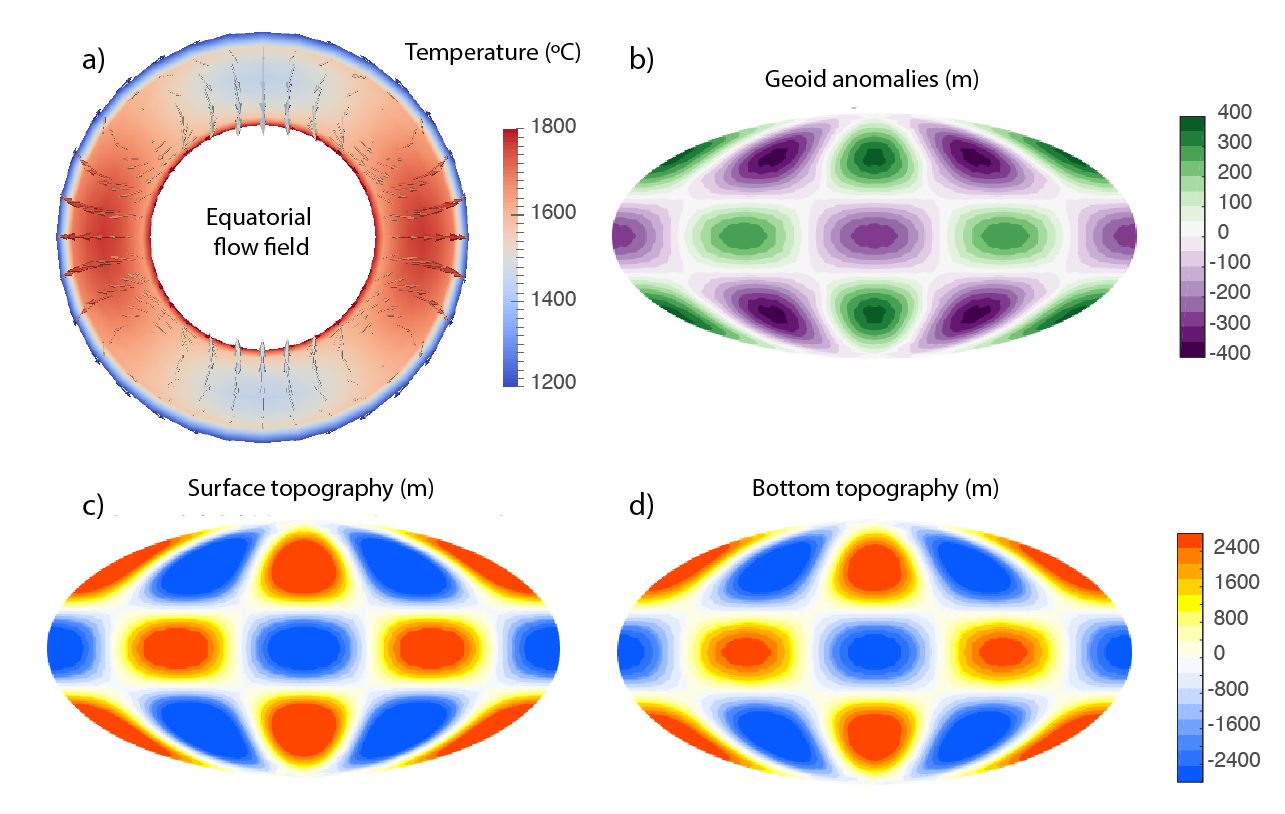
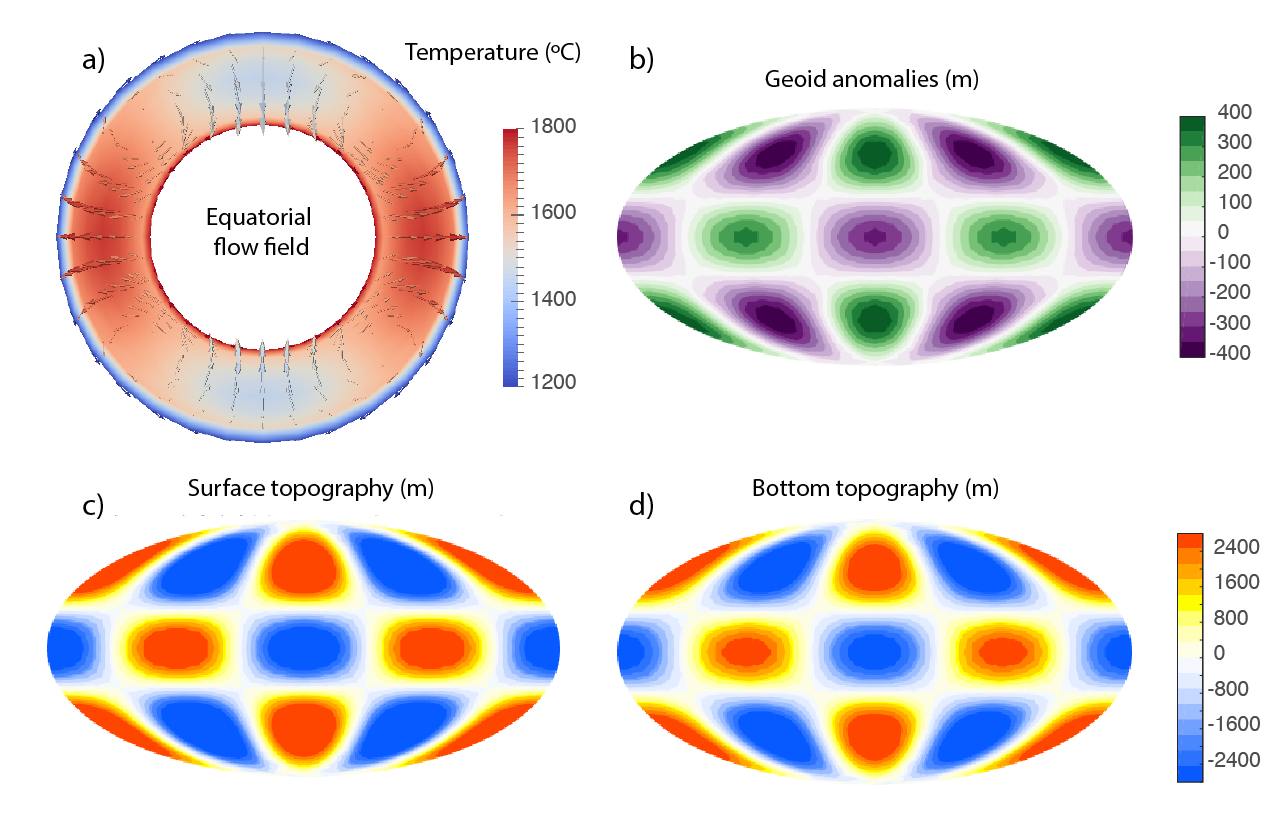
update existing initial conditions cookbook with new DT and geoid postprocessors

Changed region(s): [[0.4669, 0.2457, 0.9027, 0.4607], [0.4981, 0.1229, 0.8405, 0.215]]

diff --git a/doc/manual/manual.tex b/doc/manual/manual.tex
@@ -7149,12 +7149,15 @@ low resolution.
 \paragraph{Geoid anomalies.}
 Geoid anomalies are perturbations of the gravitational equipotential surface that 
 are due to density variations within the mantle as well as deflections of the 
-surface and core mantle boundary.
+surface and core mantle boundary. The geoid postprocessor subtracts the mean
+dynamic topography at the top and bottom surface when evaluating its contribution
+to the gravity field. 
 In this model, downwellings coincide with lows in dynamic topography. That 
 means the mass deficit caused by the depression at the surface is not 
 fully compensated by the high density material below the depression that 
 drags the surface down. The geoid postprocessor uses a spherical harmonic 
-expansion and can therefore only be used with the 3D spherical shell geometry model. 
+expansion and can therefore only be used with the 3D spherical shell geometry model.
+ 
 
 \begin{figure}
   \includegraphics[width=\textwidth]{cookbooks/shell_3d_postprocess/postprocess_cookbook-01.png}
@@ -7259,43 +7262,83 @@ reference mantle temperature in order to approximate thermal boundary layers.
 \paragraph{Visualizing 3D models.}
 
 In this cookbook we calculate the instantaneous solution to examine the flow 
-field. Figure~\ref{fig:ic-1} shows some of the output for a resolution of 2 global refinement 
-steps (c and e) as used in the cookbook, as well as 4 global refinement 
-steps (other panels in this figure). The top panels show the density variation 
+field. Figures~\ref{fig:ic-1} and \ref{fig:ic-2} show some of the output 
+for a resolution of 2 global refinement steps (\ref{fig:ic-1}c and 
+\ref{fig:ic-2}a, c, e) as used in the cookbook, as well as 4 global 
+refinement steps (other panels in these figures). Figure~\ref{fig:ic-1}a 
+and b shows the density variation 
 that has been obtained from scaling S20RTS in the way described above.
-One can see the two large low shear wave velocity perturbations 
+One can see the two large low shear wave velocity provinces
 underneath Africa and the Pacific that lead to upwelling if they are assumed to 
 be buoyant (as is done in this case). One can also see the subducting slabs 
 underneath South America and the Philippine region that lead to local downwelling. 
-This flow produces dynamic topography on the surface, which is shown 
-in the middle row for 2 refinement steps (c) and 4 refinement steps (d). 
-One can see that subduction zones are visible as depressed topography 
-due to the downward flow, while regions such as Iceland, Hawaii, or mid ocean 
-ridges are elevated due to (deep and) shallow upward flow. The bottom row
-shows the heat flux density at the surface for 2 refinement steps (e, colorbar
-ranges from 13 to 19 mW/$m^2$) and for 4 refinement steps (f, colorbar ranges
-from 35 to 95 mW/$m^2$). Similar to the dynamic topography, a first order correlation
+Figure~\ref{fig:ic-1}c and d shows the heat flux density at the surface for 
+2 refinement steps (c, colorbar ranges from 13 to 19 mW/$m^2$) and for 
+4 refinement steps (d, colorbar ranges from 35 to 95 mW/$m^2$). A first order correlation
 with upper mantle features such as high heat flow at mid ocean ridges and low
 heat flow at cratons is correctly initialized by the tomography model. 
+The mantle flow and bouyancy variations produce dynamic topography on the 
+top and bottomw surface, which is shown for 2 refinement steps (\ref{fig:ic-2}a and c, respectively) 
+and 4 refinement steps (\ref{fig:ic-2}b and d, respectively). 
+One can see that subduction zones are visible as depressed surface topography 
+due to the downward flow, while regions such as Iceland, Hawaii, or mid ocean 
+ridges are elevated due to (deep and) shallow upward flow. The core mantle boundary
+topography shows that the upwelling large low shear wave velocity 
+provinces deflect the core mantle boundary up. Lastly, Figure~\ref{fig:ic-2}e and 
+f show geoid perturbations for 2 and 4 global refinement steps, respectively. 
+The geoid anomalies show a strong correlation with the surface dynamic topography. 
+This is in part expected given that the geoid anomalies are driven by the 
+deflection of the upper and lower surface
+as well as internal density variations. The relative importance of these different
+contributors is dictated by the Earth's viscosity profile. Due to the isoviscous
+assumption in this cookbook, we don't properly recover patterns of the observed
+geoid. 
+
+As discussed in the previous cookbook, dynamic topography does not necessarily 
+average to zero if the resolution is not high enough. While one can simply subtract
+the mean as a postprocessing step this should be done with caution since a non-zero
+mean indicates that the refinement is not sufficiently high to resolve the
+convective flow. In Figure~\ref{fig:ic-2}a-d we refrained from subtracting the mean but 
+indicated it at the bottom left of each panel. The mean dynamic 
+topography approaches zero for increasing refinement. Furthermore, the mean bottom 
+dynamic topography is closer to zero than the mean top dynamic topography. This is 
+likely due to the larger magnitude of dynamic topography at the surface and the
+difference in resolution between the top and bottom domain
+(for a given refinement, the resolution at the core mantle boundary is
+higher than the resolution at the surface). The geoid postprocessor removes the
+average top and bottom surface when evaluating its contribution
+to the gravity field. The average geoid height is therefore zero. 
+
 This model uses a highly simplified material model that is incompressible and 
 isoviscous and does therefore not represent real mantle flow. More realistic 
-material properties, density scaling as well as boundary conditions will affect the magnitude 
-and pattern shown here. 
+material properties, density scaling as well as boundary conditions will affect the magnitudes
+and patterns shown here. 
 
 \begin{figure}
-  \includegraphics[width=\textwidth]{cookbooks/initial-condition-S20RTS/full_mantle.png}
+  \includegraphics[width=\textwidth]{cookbooks/initial-condition-S20RTS/Fig_cookbook_V4-01.png}
   \hfill
-  \caption{\it Panels a and b show the density distribution as prescribed from the shear
+  \caption{\it Panels (a) and (b) show the density distribution as prescribed from the shear
   wave velocity model S20RTS and the resulting flow for a global refinement of 4. This
   model assumes a constant scaling between shear wave and density perturbations.
-  Panel c shows the great circle (dashed blue line) along which the top slices
-  are evaluated. Panels c and d show the resulting dynamic topography for a global refinement of 2 (c, cookbook)
-  and 4 (d). Panels e and f show the resulting heat flux density for a global refinement of
-  2 (e, cookbook) and 4 (f). The colorbar ranges from 13 to 19 mW/$m^2$ for panel e and
-  from 35 to 95 mW/$m^2$ for panel f.}
+  Panel (c) shows the great circle (dashed blue line) along which the top slices
+  are evaluated. Panels (c) and (d) show the resulting heat flux density for a global refinement of
+  2 (c, cookbook) and 4 (d). The colorbar ranges from 13 to 19 mW/$m^2$ for panel (c) and
+  from 35 to 95 mW/$m^2$ for panel (d).}
   \label{fig:ic-1}
 \end{figure}
 
+\begin{figure}
+  \includegraphics[width=\textwidth]{cookbooks/initial-condition-S20RTS/Fig_cookbook_V4-02.png}
+  \hfill
+  \caption{\it The first row of this figure shows the surface dynamic topography resulting 
+  from the flow shown in Figure~\ref{fig:ic-1} for a global 
+  refinement of 2 (a, cookbook) and 4 (b). The colorbar ranges from -2400m to 400m for panel (a) and
+  from -2000m to 1600m for panel (b). The second row shows the dynamic topography at
+  the core mantle boundary for the same model and a refinement of 2 (c, cookbook) and 4 (d). Averages of the 
+  dynamic topography fields are indicated at the bottom left of each panel. The bottom row shows the
+  geoid anomalies from this model at the surface for refinement of 2 (e, cookbook) and 4 (f).}
+  \label{fig:ic-2}
+\end{figure}
 
 \subsubsection{Using reconstructed surface velocities by GPlates}
 \label{sec:cookbooks-gplates}
